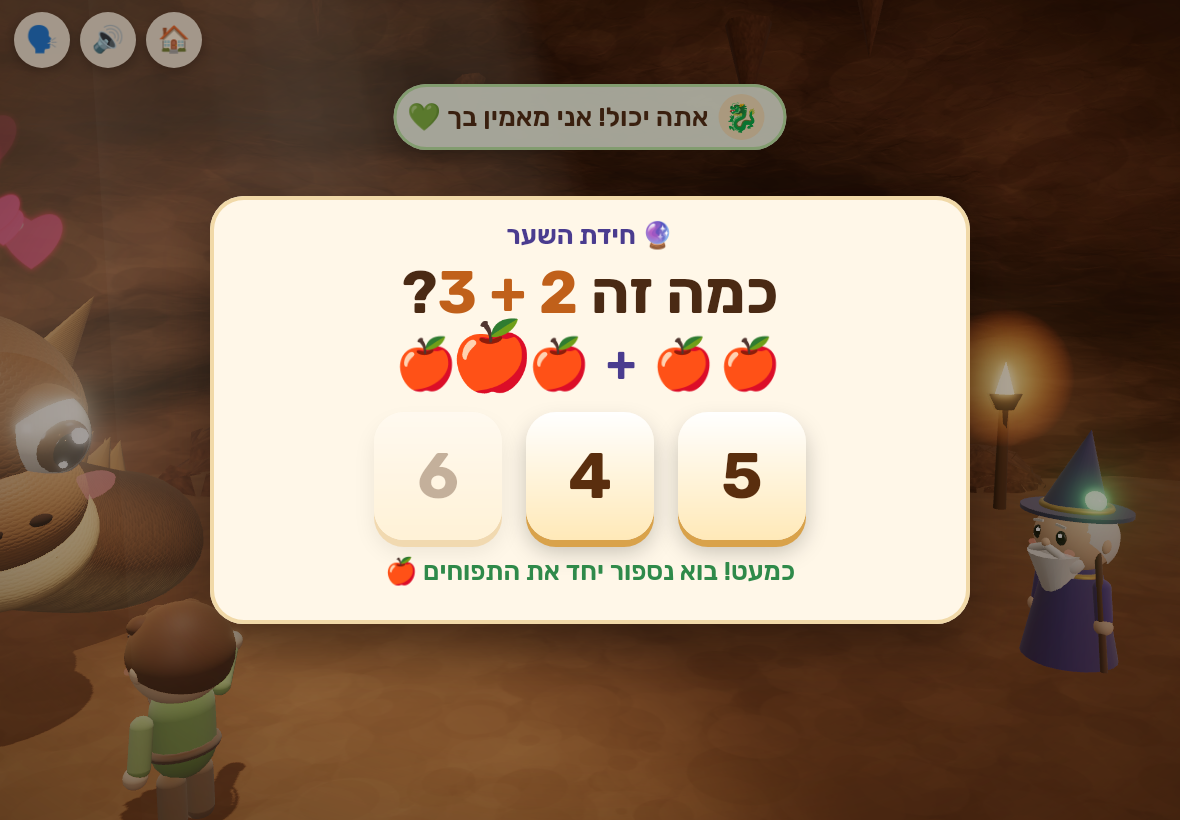
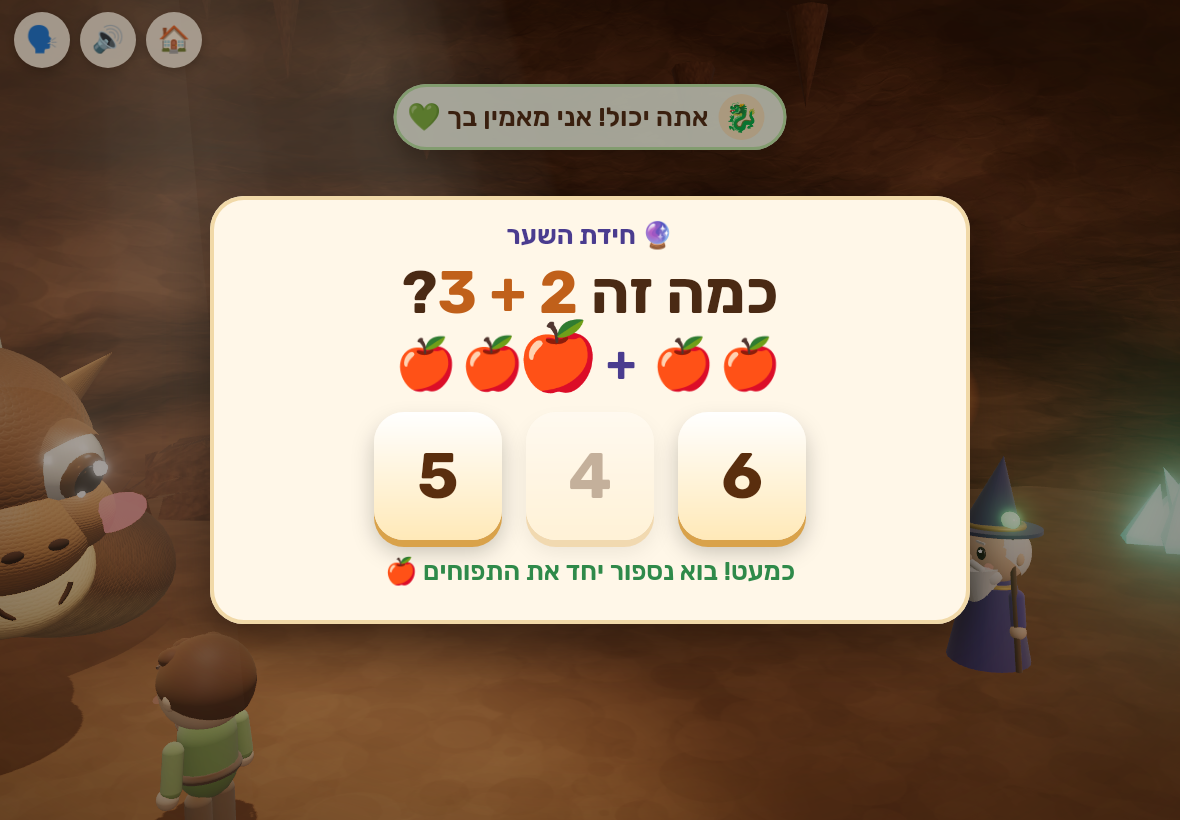
Cave gate: tone down the blown-out daylight; refresh screenshots

diff --git a/src/cave.js b/src/cave.js
@@ -91,7 +91,7 @@ export function buildCave() {
   for (let i = 0; i <= 12; i++) { const a = Math.PI - i / 12 * Math.PI; arch.push(new THREE.BoxGeometry(0.9, 0.9, 1.2).rotateZ(a).translate(Math.cos(a) * 2.9, 3.4 + Math.sin(a) * 2.6, 0).toNonIndexed()); }
   for (const sx of [-1, 1]) for (let j = 0; j < 4; j++) arch.push(new THREE.BoxGeometry(1.0, 0.85, 1.2).translate(sx * 2.95, 0.42 + j * 0.86, 0).toNonIndexed());
   const archM = new THREE.Mesh(mergeGeometries(arch), new THREE.MeshStandardMaterial({ map: rockCol, color: 0xd8c4a8, roughness: 0.85 })); archM.castShadow = true; gate.add(archM);
-  const daylight = new THREE.Mesh(new THREE.CircleGeometry(3.0, 32, 0, Math.PI).translate(0, 3.4, -0.4), new THREE.MeshBasicMaterial({ color: new THREE.Color(2.2, 2.6, 3.0) }));
+  const daylight = new THREE.Mesh(new THREE.CircleGeometry(3.0, 32, 0, Math.PI).translate(0, 3.4, -0.4), new THREE.MeshBasicMaterial({ color: new THREE.Color(0.95, 1.2, 1.55) }));
   const dayRect = new THREE.Mesh(new THREE.PlaneGeometry(5.2, 3.4).translate(0, 1.7, -0.4), daylight.material);
   gate.add(daylight, dayRect);
   const wtex = new THREE.TextureLoader().load('assets/textures/wood_1k.jpg'); wtex.colorSpace = THREE.SRGBColorSpace;
